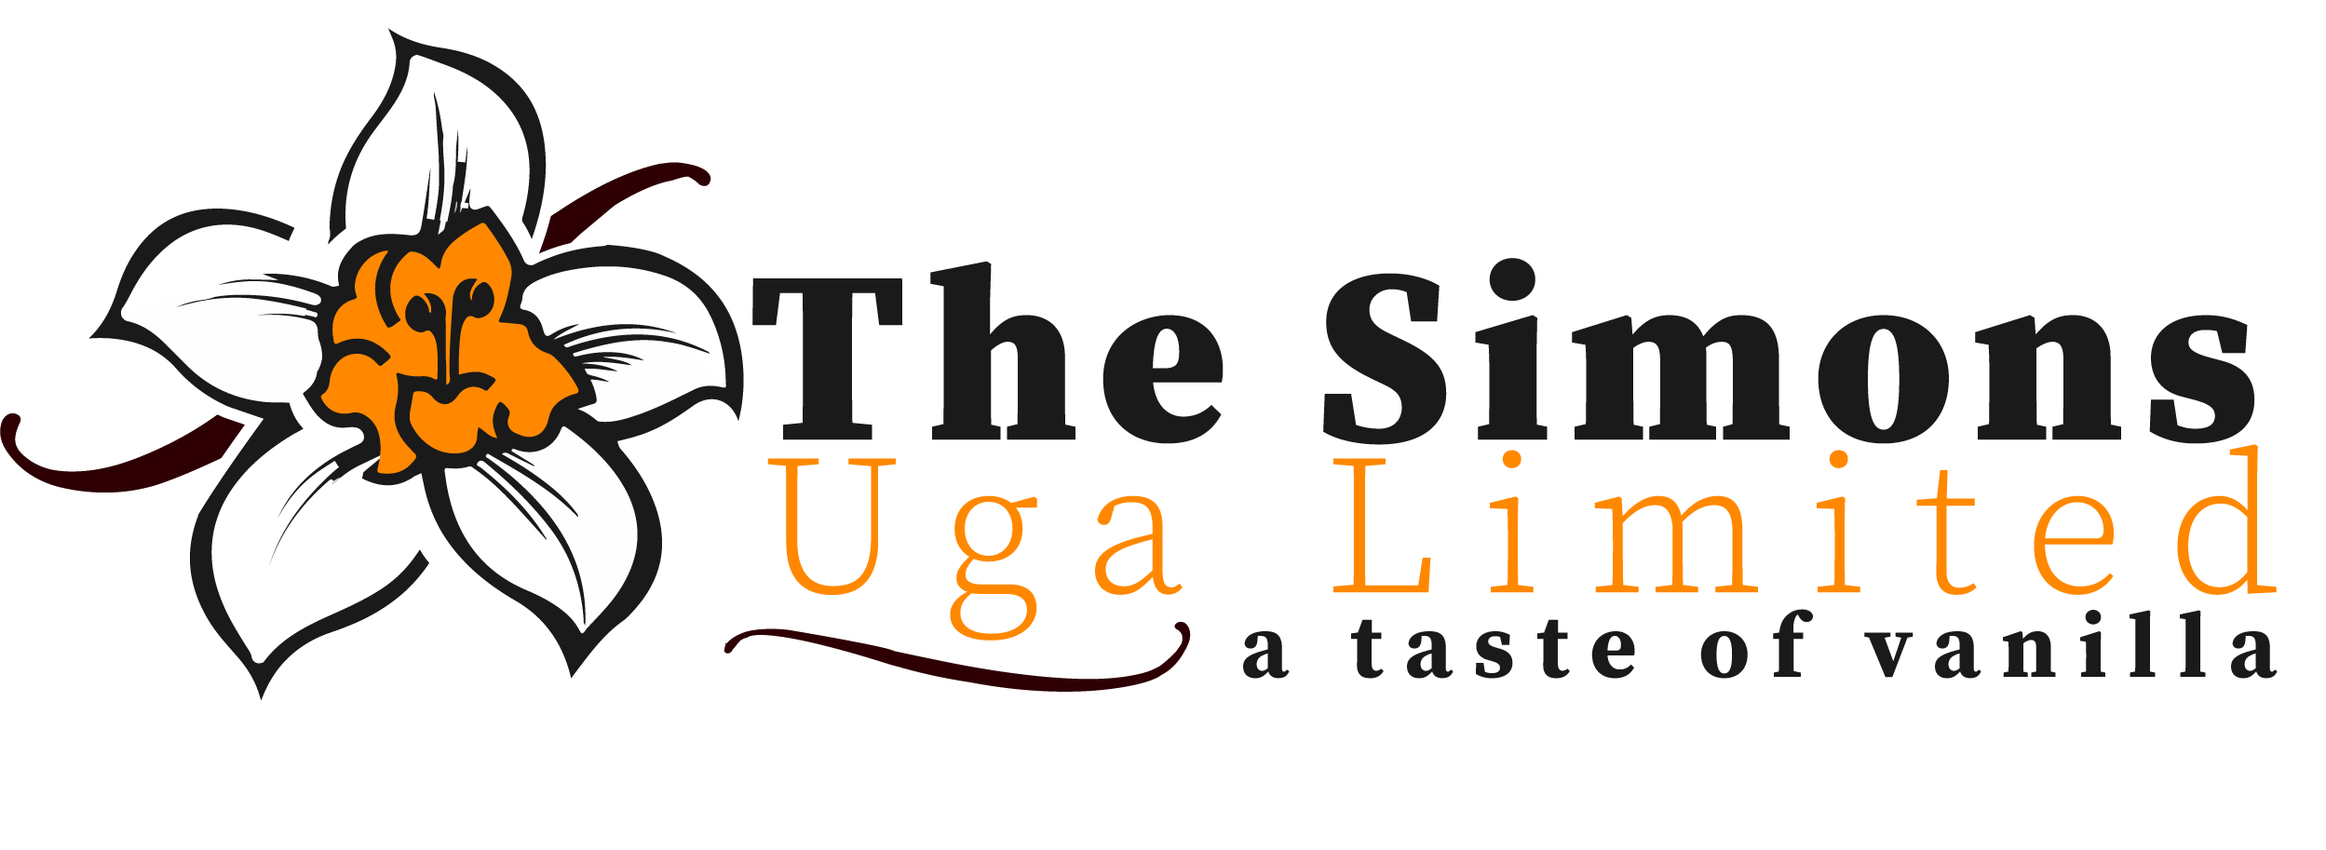
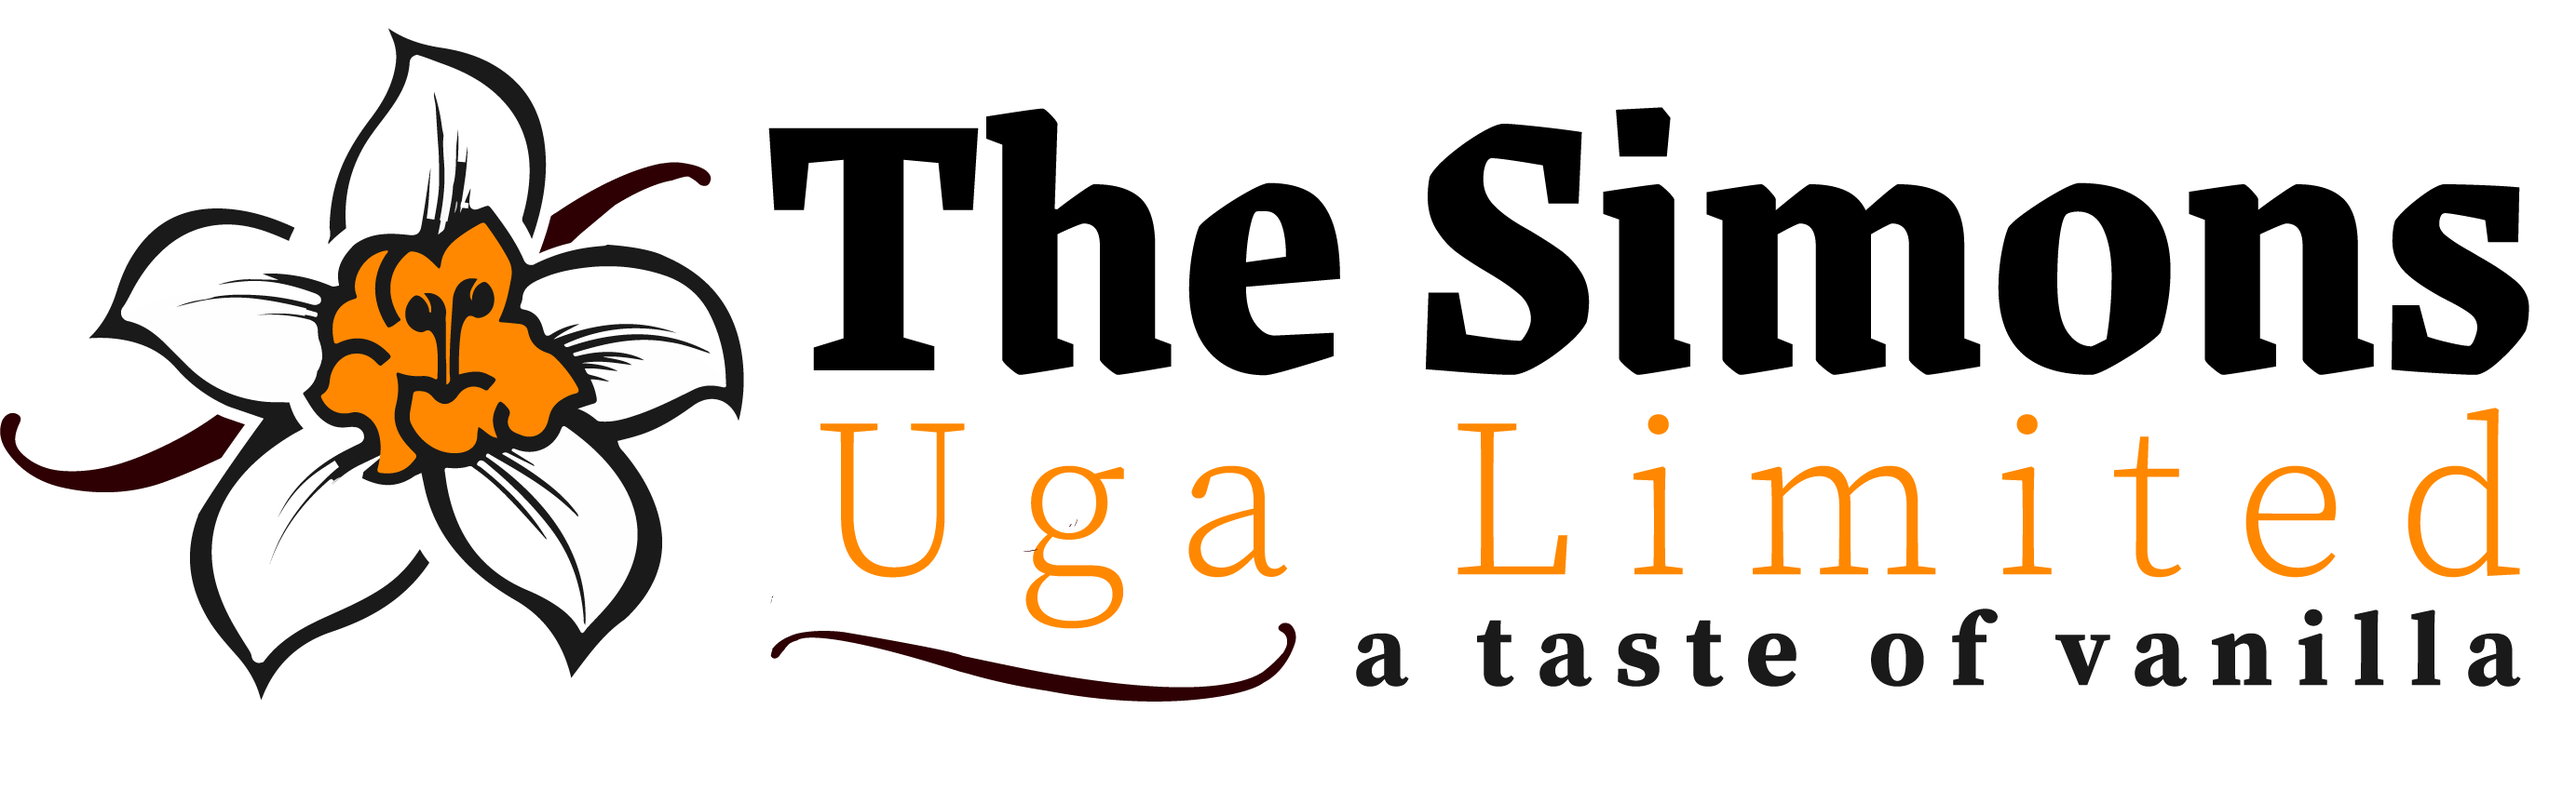
first commit

Changed region(s): [[0.0, 0.0301, 0.9992, 0.8737], [0.9367, 0.5724, 0.968, 0.6327]]

diff --git a/public/css/style.css b/public/css/style.css
@@ -9,8 +9,9 @@
 # General
 --------------------------------------------------------------*/
 body {
-  font-family: "Source Serif Variable", sans-serif;
+  font-family: "Grenze", sans-serif;
   background: #191919;
+  font-size: 15px;
   color: #fff;
 }
 
@@ -30,7 +31,7 @@ h3,
 h4,
 h5,
 h6 {
-  font-family: "Source Serif Variable", serif;
+  font-family: "Grenze", serif;
 }
 
 /*--------------------------------------------------------------
@@ -455,6 +456,8 @@ h6 {
   padding: 0;
 }
 
+
+
 #hero:before {
   content: "";
   background: rgba(0, 0, 0, 0.5);
@@ -502,7 +505,7 @@ h6 {
   font-weight: 700;
   line-height: 56px;
   color: #FF8800;
-  font-family: "Alegreya", sans-serif;
+  font-family: "Grenze", sans-serif;
 }
 
 #hero h1 span {
@@ -688,6 +691,7 @@ section {
 
 .section-title {
   padding-bottom: 40px;
+  margin-top: 140px;
 }
 
 .section-title h2 {
@@ -699,7 +703,7 @@ section {
   letter-spacing: 2px;
   text-transform: uppercase;
   color: #aaaaaa;
-  font-family: "Poppins", sans-serif;
+  font-family: "Grenze", sans-serif;
 }
 
 .section-title h2::after {
@@ -716,7 +720,7 @@ section {
   margin: 0;
   font-size: 36px;
   font-weight: 700;
-  font-family: "Playfair Display", serif;
+  font-family: "Grenze", serif;
   color: #ff8800;
 }
 
@@ -778,7 +782,7 @@ section {
 # About
 --------------------------------------------------------------*/
 .about {
-  background: url("../img/about-bg.jpg") center center;
+  /* background: url("../img/about-bg.jpg") center center; */
   background-size: cover;
   position: relative;
   padding: 80px 0;
@@ -1014,7 +1018,7 @@ section {
   margin-left: 85px;
   font-style: italic;
   font-size: 14px;
-  font-family: "Poppins", sans-serif;
+  font-family: "Grenze", sans-serif;
   color: rgba(255, 255, 255, 0.5);
 }
 
@@ -1131,7 +1135,7 @@ section {
 
 .events .event-item .price {
   font-size: 26px;
-  font-family: "Open Sans", sans-serif;
+  font-family: "Grenze", sans-serif;
   font-weight: 700;
   margin-bottom: 15px;
 }
@@ -1489,7 +1493,7 @@ section {
   font-size: 18px;
   font-weight: 500;
   margin-bottom: 5px;
-  font-family: "Poppins", sans-serif;
+  font-family: "g", sans-serif;
 }
 
 .contact .info p {
@@ -1651,8 +1655,7 @@ section {
   padding: 2px 0 2px 0;
   line-height: 1;
   font-weight: 300;
-  text-transform: uppercase;
-  font-family: "Poppins", sans-serif;
+  font-family: "Grenze", sans-serif;
 }
 
 #footer .footer-top .footer-info p {

diff --git a/public/contact.html b/public/contact.html
@@ -5,7 +5,7 @@
     <meta charset="utf-8">
     <meta content="width=device-width, initial-scale=1.0" name="viewport">
 
-    <title>Home | The Simons Uga Limited</title>
+    <title>Contact | The Simons Uga Limited</title>
     <meta content="" name="description">
     <meta content="" name="keywords">
 
@@ -44,7 +44,7 @@
 
             <nav id="navbar" class="navbar order-last order-lg-0">
                 <ul>
-                    <li><a class="nav-link scrollto active" href="#hero">Home</a></li>
+                    <li><a class="nav-link scrollto active" href="./index.html">Home</a></li>
                     <li><a class="nav-link scrollto" href="#about">About</a></li>
                     <li><a class="nav-link scrollto" href="./contact.html">Contact</a></li>
                     <li><a class="nav-link" href="./gallery.html">Gallery</a></li>
@@ -61,7 +61,7 @@
 
             <div class="section-title">
                 <h2>Contact</h2>
-                <p>Contact Us</p>
+                <p>Vanilla</p>
             </div>
         </div>
 

diff --git a/server.js b/server.js
@@ -1,6 +1,7 @@
 const express = require('express'),
     server = express();
 const path = require('path');
+const port = 8080
 
 
 
@@ -8,7 +9,7 @@ server.use(express.urlencoded({ extended: true }));
 server.use(express.static(path.join(__dirname, 'public')));
 
 
-server.set('port', process.env.PORT || 3000);
+server.set('port', process.env.PORT || 8080);
 
 server.get('/', (req, res) => {
     res.sendFile('/index.html', { root: __dirname });
@@ -22,6 +23,6 @@ server.get('/about', (req, res) => {
 
 server.get('/contact', (req, res) => { res.sendFile('/contact.html', { root: __dirname }); });
 
-server.listen(3000, () => {
-    console.log('Express server started at port 3000');
+server.listen(port, () => {
+    console.log('Express server started at port 8080');
 });

diff --git a/public/index.html b/public/index.html
@@ -100,7 +100,8 @@
       </a>
     </div>
     <div class="hero-container" data-aos="fade-up">
-      <h1 class="simonilla">The Simons Uga Limited</h1>
+      <h1 class="simonilla">The Simons U<span
+          style="font-family:'Gill Sans', 'Gill Sans MT', Calibri, 'Trebuchet MS', sans-serif">g</span>a Limited</h1>
       <img src="/img/taste-vanilla.png" width="400">
     </div>
   </section><!-- End Hero -->
